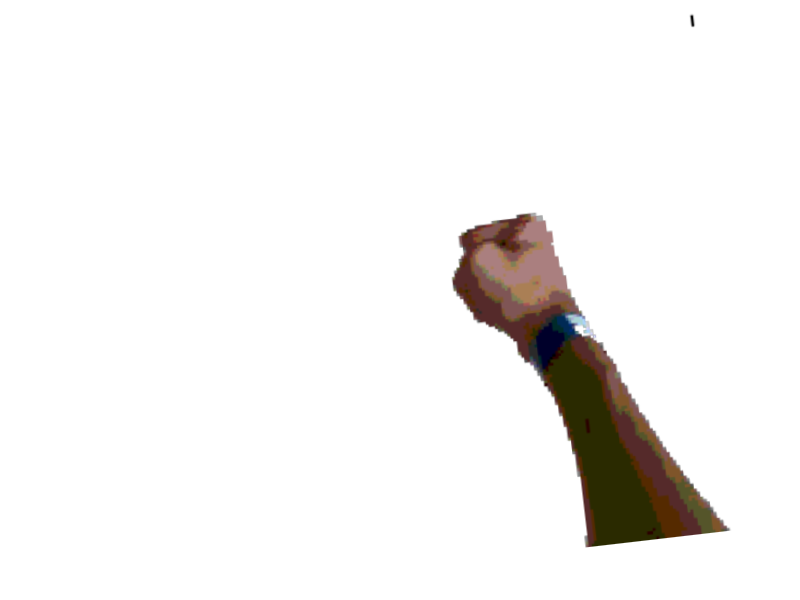
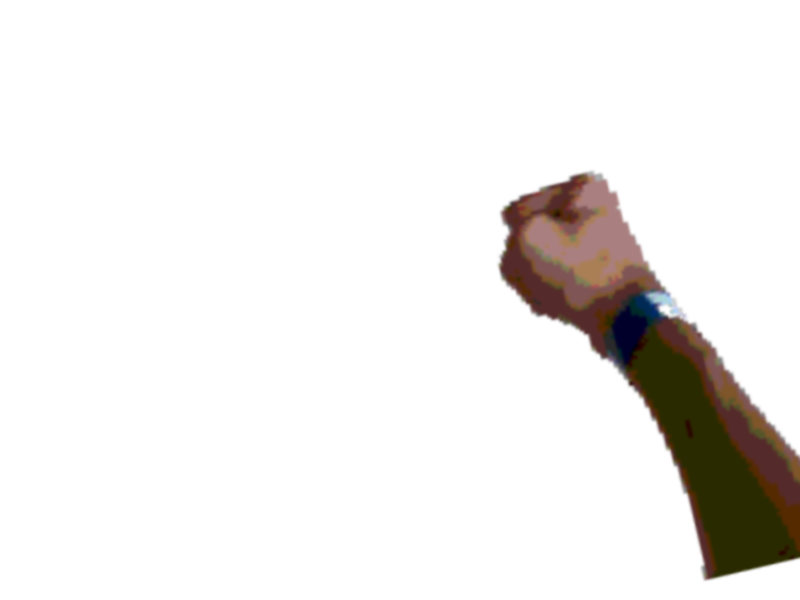
spell system

Changed region(s): [[0.5625, 0.27, 1.0, 0.99]]

diff --git a/game.py b/game.py
@@ -79,15 +79,18 @@ faces = {
 
 hud = pygame.transform.scale(pygame.image.load("imgs/HUD.png").convert_alpha(), (WIDTH, HEIGHT))
 
-punch = {0: (pygame.transform.scale(pygame.image.load("imgs/attacks/punch/fist1.png").convert_alpha(), (WIDTH, HEIGHT)), 2),
-         1: (pygame.transform.scale(pygame.image.load("imgs/attacks/punch/fist2.png").convert_alpha(), (WIDTH, HEIGHT)), 2),
-         2: (pygame.transform.scale(pygame.image.load("imgs/attacks/punch/fist3.png").convert_alpha(), (WIDTH, HEIGHT)), 5),
-         3: (pygame.transform.scale(pygame.image.load("imgs/attacks/punch/fist4.png").convert_alpha(), (WIDTH, HEIGHT)), 13),
-         4: (pygame.transform.scale(pygame.image.load("imgs/attacks/punch/fist3.png").convert_alpha(), (WIDTH, HEIGHT)), 2),
-         5: (pygame.transform.scale(pygame.image.load("imgs/attacks/punch/fist2.png").convert_alpha(), (WIDTH, HEIGHT)), 2)}
+punch = {0: (pygame.transform.scale(pygame.image.load("imgs/attacks/punch/fist2.png").convert_alpha(), (WIDTH, HEIGHT)), 4),
+         1: (pygame.transform.scale(pygame.image.load("imgs/attacks/punch/fist3.png").convert_alpha(), (WIDTH, HEIGHT)), 4),
+         2: (pygame.transform.scale(pygame.image.load("imgs/attacks/punch/fist4.png").convert_alpha(), (WIDTH, HEIGHT)), 9),
+         3: (pygame.transform.scale(pygame.image.load("imgs/attacks/punch/fist3.png").convert_alpha(), (WIDTH, HEIGHT)), 5),
+         4: (pygame.transform.scale(pygame.image.load("imgs/attacks/punch/fist2.png").convert_alpha(), (WIDTH, HEIGHT)), 14)}
+
+fireball = {0: (pygame.transform.scale(pygame.image.load("imgs/attacks/fireball/fireball1.png").convert_alpha(), (WIDTH, HEIGHT)), 4),
+            1: (pygame.transform.scale(pygame.image.load("imgs/attacks/fireball/fireball2.png").convert_alpha(), (WIDTH, HEIGHT)), 10)}
 
 ATTACKS = {
-    "punch": [punch, 4]
+    "punch": punch,
+    "fireball": fireball
 }
 
 # -----------------------------------------------------------------------------------------------
@@ -426,7 +429,7 @@ def render_hud(delta):
 
     # Usage
     angle_to_goal = get_angle_to_goal(player_coords, goal_coords)
-    arrow_texture = get_arrow_texture(-angle_to_goal, -player_rot)
+    arrow_texture = get_arrow_texture(-angle_to_goal, -math.atan2(-player_rotation['x'], player_rotation['y']))
 
     arrow = pygame.transform.scale(arrow_texture, (WIDTH, HEIGHT))
 
@@ -682,7 +685,8 @@ def init():
     global anim_frames
     global player_health
 
-    attack = None
+    attack = False
+    held_spell = "fireball"
 
     textures = {0: load_image(pygame.image.load("imgs/wall.png").convert(), False),
                 1: load_image(pygame.image.load("imgs/wall.png").convert(), False),
@@ -703,7 +707,6 @@ def init():
     gen_map(display)
     frames = 0
 
-    current_weapon_state = punch[0][0]
     current_anim_frame = 0
     anim_counter = 0
 
@@ -716,16 +719,18 @@ def init():
         display.fill((0, 0, 0))
         delta_time = 1 / clock.tick(60)
 
-        if attack is not None:
-            if frames - anim_counter >= punch[current_anim_frame][1]:
+        if attack:
+            if frames - anim_counter >= ATTACKS[held_spell][current_anim_frame][1]:
                 current_anim_frame += 1
-                if current_anim_frame >= len(punch):
-                    attack = None
+                if current_anim_frame >= len(ATTACKS[held_spell]):
+                    attack = False
                     current_anim_frame = 0
-                    current_weapon_state = punch[0][0]
+                    held_spell = "punch"
                 else:
                     anim_counter = frames
-                    current_weapon_state = punch[current_anim_frame][0]
+                    current_weapon_state = ATTACKS[held_spell][current_anim_frame][0]
+        else:
+            current_weapon_state = ATTACKS[held_spell][0][0]
 
         input_handler(delta_time)
 
@@ -743,7 +748,7 @@ def init():
             if event.type == pygame.KEYDOWN:
                 if event.key == pygame.K_SPACE:
                     fire(2)
-                    attack = "punch"
+                    attack = True
                 if event.key == pygame.K_ESCAPE:
                     quit()
                 if event.key == pygame.K_TAB:
